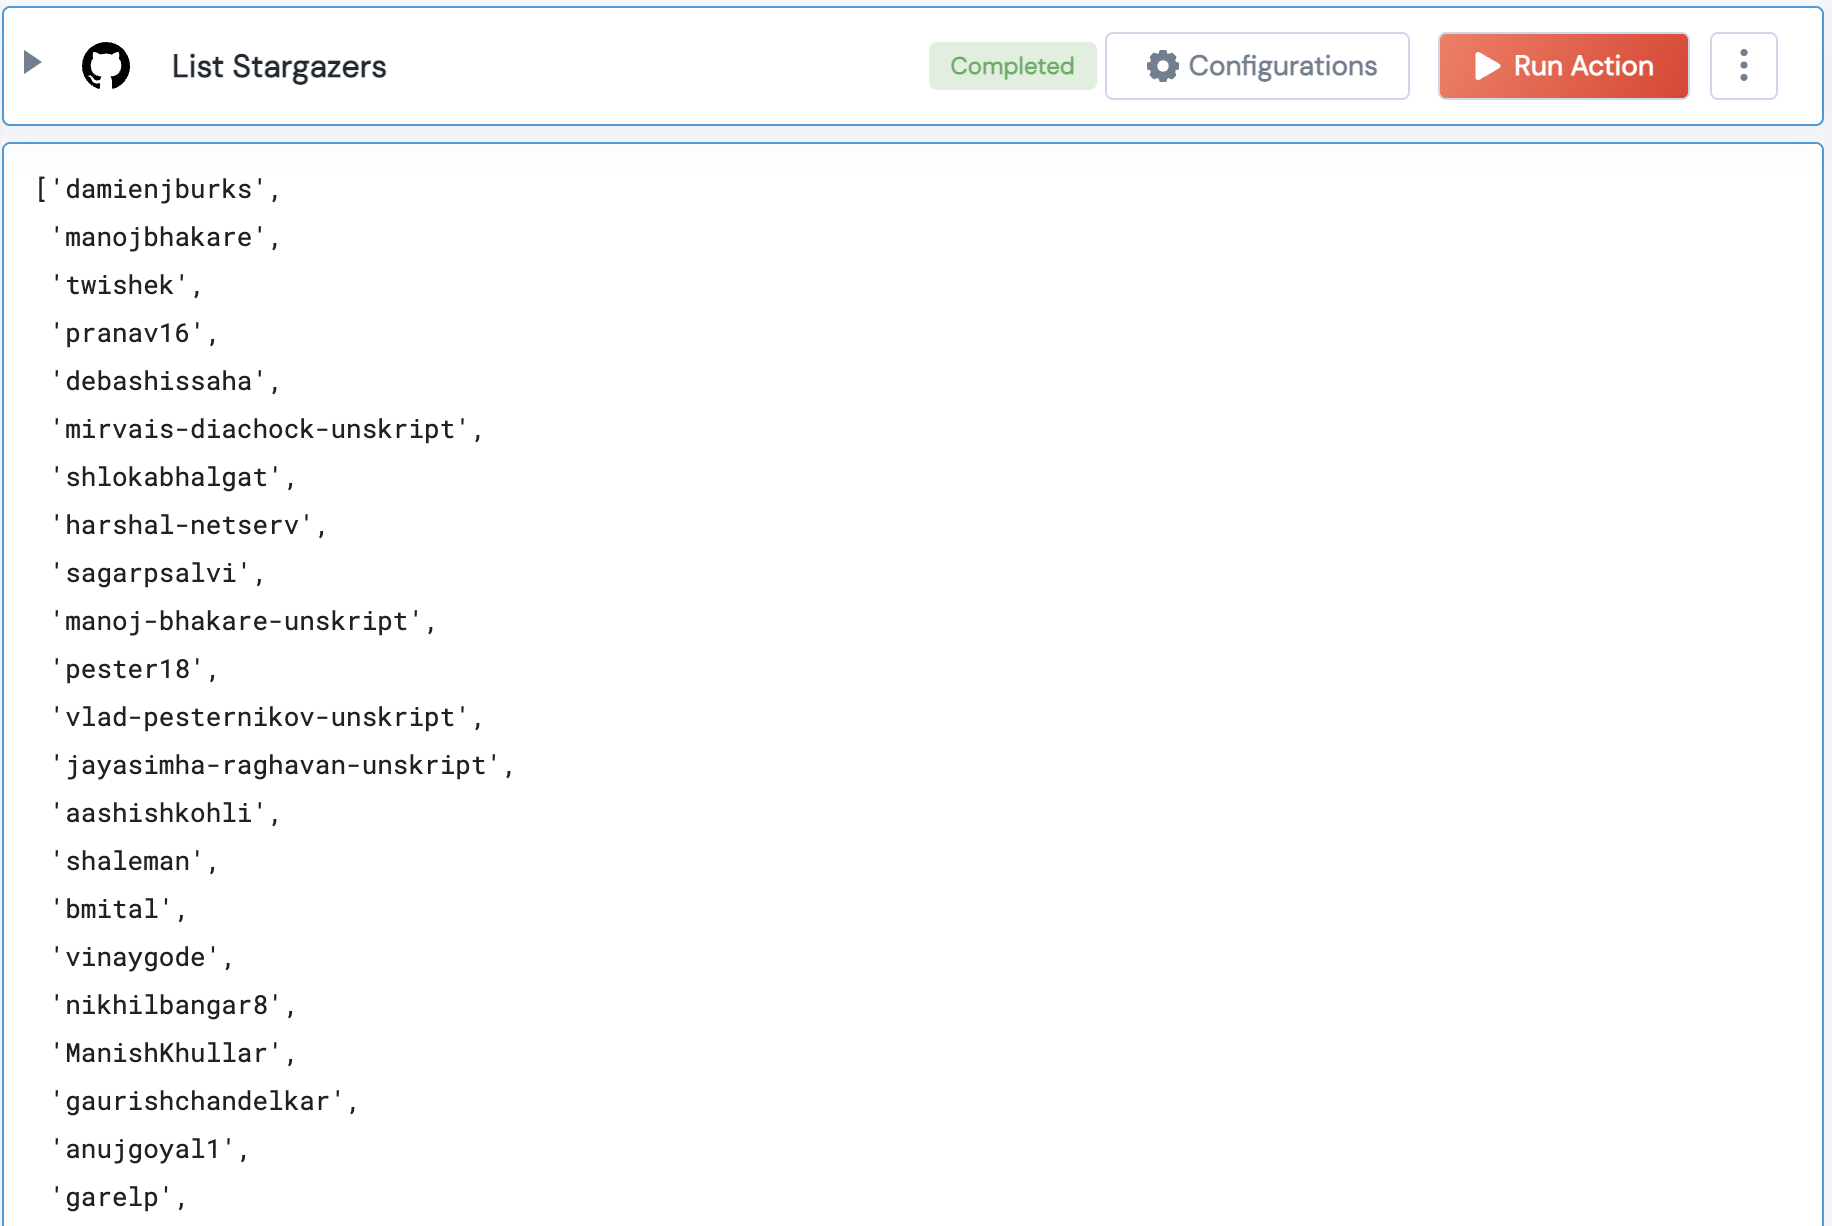
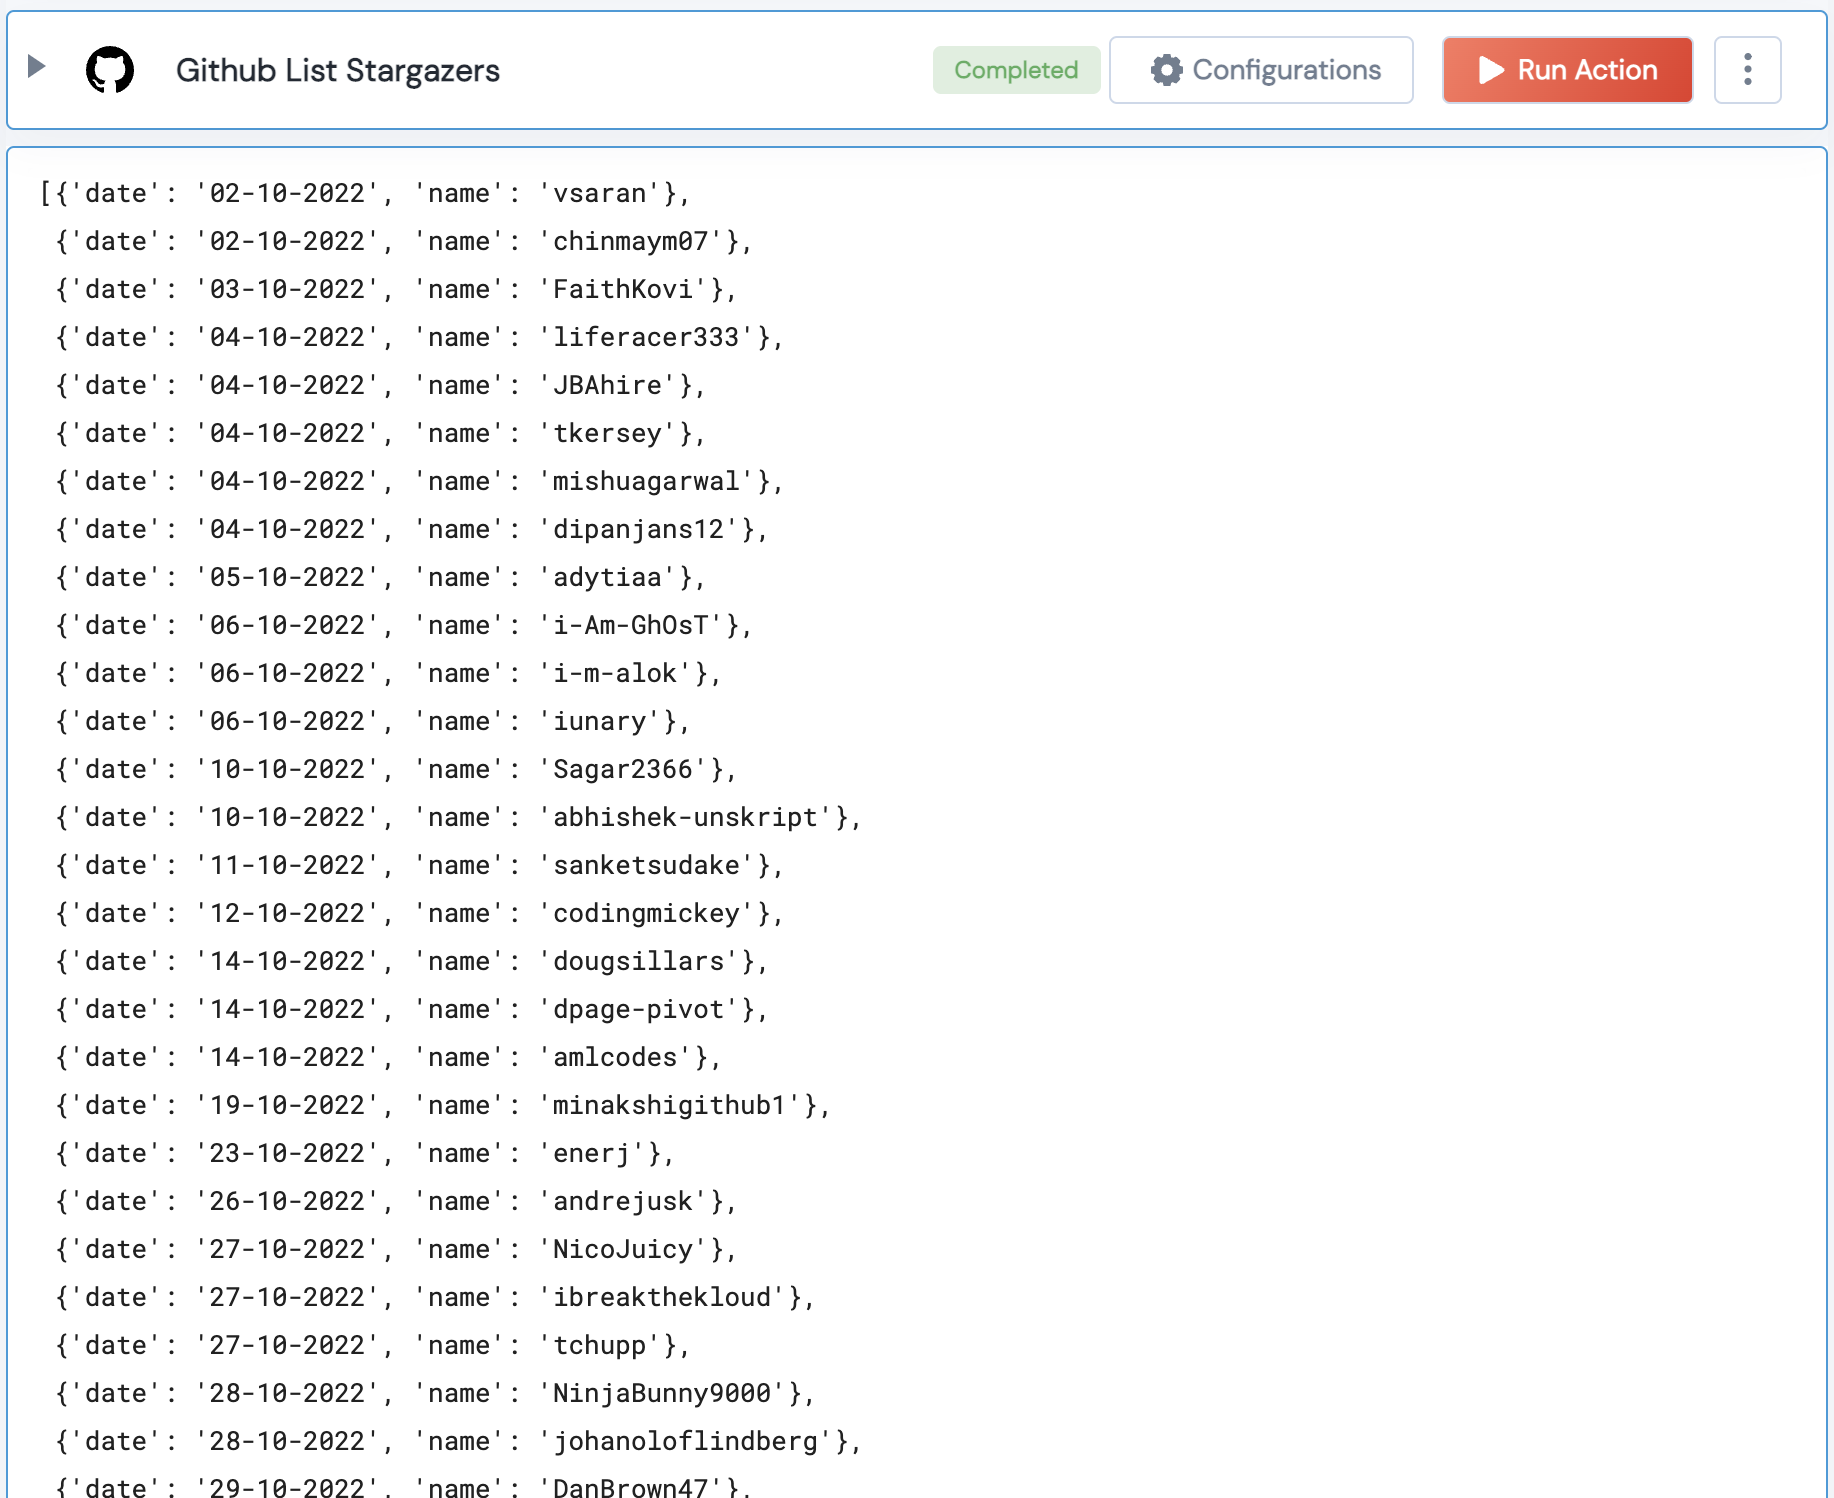
Update: Github List Stargazers (#342)

Changed region(s): [[0.0, 0.0, 1.0, 1.0]]

diff --git a/Github/legos/github_list_stargazers/github_list_stargazers.py b/Github/legos/github_list_stargazers/github_list_stargazers.py
@@ -27,7 +27,7 @@ def github_list_stargazers_printer(output):
     pprint.pprint(output)
 
 def github_list_stargazers(handle, owner:str, repository:str) -> List:
-    """github_list_stargazers returns first 100 stargazers for a Github Repository
+    """github_list_stargazers returns last 100 stargazers for a Github Repository
 
         :type handle: object
         :param handle: Object returned from task.validate(...).
@@ -38,15 +38,21 @@ def github_list_stargazers(handle, owner:str, repository:str) -> List:
         :type repository: string
         :param repository: Name of the GitHub repository. Eg: "Awesome-CloudOps-Automation"
 
-        :rtype: List of first 100 stargazers for a Github Repository
+        :rtype: List of last 100 stargazers for a Github Repository
     """
     result = []
     try:
         owner = handle.get_user(owner)
         repo_name = owner.login +'/'+ repository
         repo = handle.get_repo(repo_name)
-        stars = repo.get_stargazers()
-        [result.append(star.login) for star in stars[:100]]
+        stars = repo.get_stargazers_with_dates()
+        for star in stars[len(list(stars))-100:]:
+            stargazer_details = {}
+            stargazer_details["name"] = star.user.login
+            dummy_date = star.starred_at
+            formatted_date = dummy_date.strftime("%d-%m-%Y")
+            stargazer_details["date"] = formatted_date
+            result.append(stargazer_details)
     except GithubException as e:
         if e.status == 403:
             raise Exception("You need admin access")
